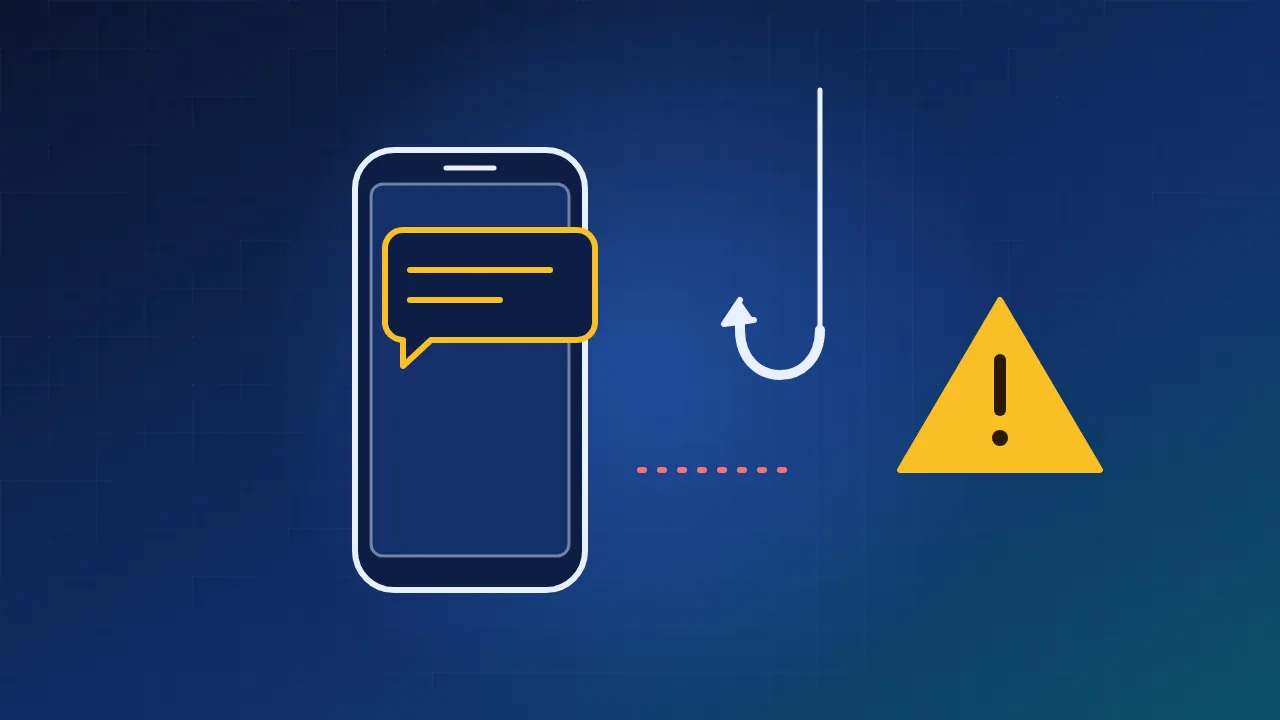
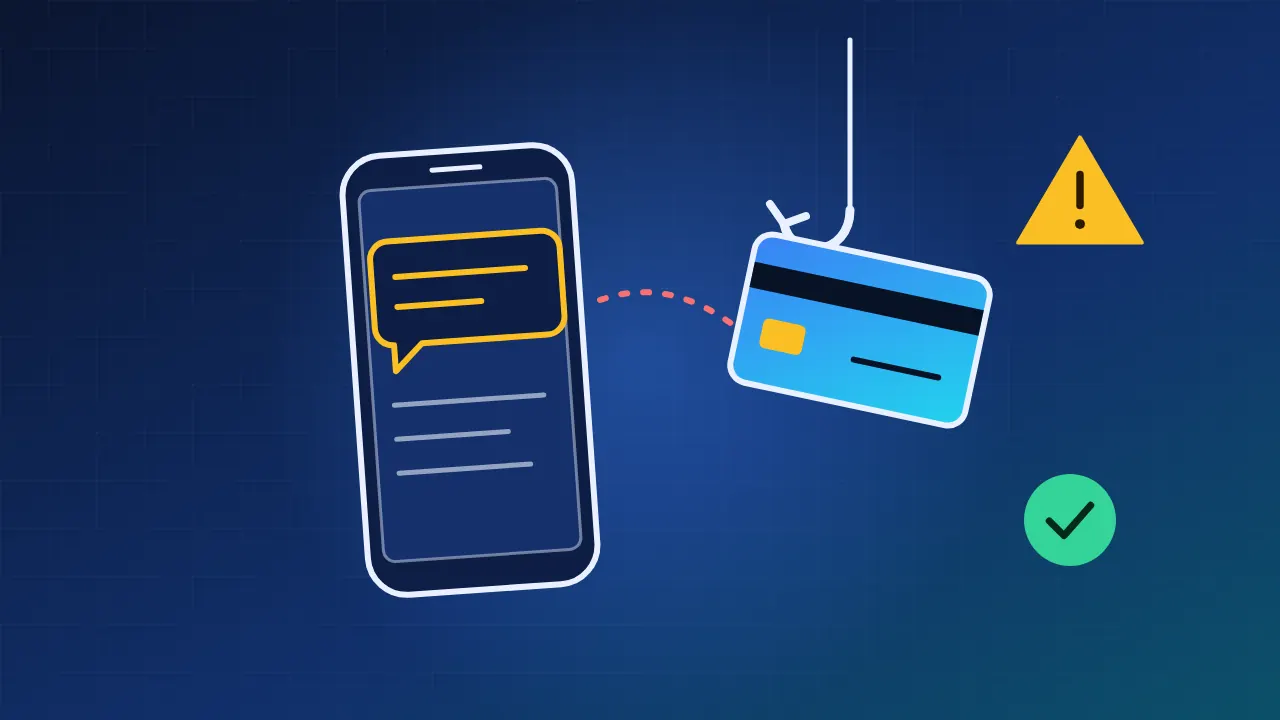
Illustrations redessinées (arnaques, batterie, consoles), empreinte ?v= sur les images, contrôle des dessins dans GitHub
Claude-Session: https://claude.ai/code/session_01DeNgQkMUf5wDfSUwssxcfR

diff --git a/source/gouyerian-tech.html b/source/gouyerian-tech.html
@@ -2385,7 +2385,9 @@ NEWS.sort((a,b)=>(isUrg(b)-isUrg(a))||b.d.localeCompare(a.d));
 /* Chaque actualité a sa page : #actu-<adresse> dans l’aperçu, /actualites/<adresse>/ sur le site */
 const slugify=t=>{let o="";for(const w of norm(t).split(" ")){if(o&&(o+"-"+w).length>64)break;o+=(o?"-":"")+w}return o};
 NEWS.forEach(n=>{n.id=slugify(n.t)});
-const picHTML=(n,alt,sizes,eager)=>`<img src="${ASSETS}img/${n}-640.webp" srcset="${ASSETS}img/${n}-640.webp 640w, ${ASSETS}img/${n}-1280.webp 1280w" sizes="${sizes}" width="1280" height="720" alt="${alt||""}" ${eager?'fetchpriority="high"':'loading="lazy"'} decoding="async">`;
+/* IMGV : empreinte de chaque image (ajoutée par build.py), pour que les navigateurs prennent tout de suite une illustration redessinée */
+const imgv=f=>{const v=(window.GT_IMGV||{})[f];return v?"?v="+v:""};
+const picHTML=(n,alt,sizes,eager)=>`<img src="${ASSETS}img/${n}-640.webp${imgv(n+"-640.webp")}" srcset="${ASSETS}img/${n}-640.webp${imgv(n+"-640.webp")} 640w, ${ASSETS}img/${n}-1280.webp${imgv(n+"-1280.webp")} 1280w" sizes="${sizes}" width="1280" height="720" alt="${alt||""}" ${eager?'fetchpriority="high"':'loading="lazy"'} decoding="async">`;
 const esc=s=>String(s).replace(/[&<>"]/g,c=>({"&":"&amp;","<":"&lt;",">":"&gt;",'"':"&quot;"}[c]));
 const C={tel:"06 05 79 48 94",telI:"+33605794894",mail:"gouyerian.tech@gmail.com",adr:"1 route de Segonzac, 16130 Saint-Fort-sur-le-Né"};
 const hrefs={tel:"tel:"+C.telI,mail:"mailto:"+C.mail,map:"https://www.google.com/maps/search/?api=1&query="+encodeURIComponent("Gouyerian Tech, "+C.adr)+"&query_place_id=ChIJY1Q5ZwBhAEgRGG3fYcH4qpk"};

diff --git a/outils/gen_illus.py b/outils/gen_illus.py
@@ -304,20 +304,14 @@ S["cat-assistance"] = frame(
     + wifi(735, 480, 90) + f'<path d="M1010 250c0 70 -70 130 -70 130s-70 -60 -70 -130a70 70 0 0 1 140 0z" fill="url(#ac)" stroke="{INK}"/><circle cx="940" cy="250" r="24" fill="{BODY}"/>'
     + f'<path d="M940 380c-80 60 -150 60 -190 40" stroke="{CY}" stroke-dasharray="4 18" stroke-width="7"/>', 620, 380)
 S["cat-consoles"] = frame(
-    # console portable générique : écran au centre, deux manettes détachables
-    f'<rect x="330" y="200" width="130" height="250" rx="58" fill="{BODY}" stroke="{CY}"/><rect x="740" y="200" width="130" height="250" rx="58" fill="{BODY}" stroke="{BL}"/>'
-    + f'<rect x="440" y="200" width="320" height="250" rx="14" fill="{BODY}"/><rect x="462" y="222" width="276" height="206" rx="8" fill="url(#ac)" fill-opacity=".38" stroke="none"/>'
-    + f'<circle cx="395" cy="265" r="24" fill="#14306a"/><circle cx="805" cy="375" r="24" fill="#14306a"/>'
-    + f'<path d="M395 352v40M375 372h40" stroke-width="8"/>'
-    + "".join(f'<circle cx="{x}" cy="{y}" r="9" fill="{INK}" stroke="none"/>' for x, y in ((805, 250), (785, 270), (825, 270), (805, 290)))
-    + f'<rect x="580" y="458" width="40" height="12" rx="6" fill="{INK}" stroke="none"/>' + bolt(600, 540, .7, AM)
-    # prise HDMI et son câble
-    + f'<path d="M170 520h110l-14 40h-82z" fill="{BODY}" stroke="{CY}"/><path d="M196 532h58" stroke="{CY}" stroke-width="5"/><path d="M225 560v40c0 40 60 50 110 30" stroke="{CY}" stroke-width="8"/>'
+    # écran, manette générique et prise HDMI : réparation de consoles (aucun modèle réel)
+    monitor(560, 290, 500, 300, f'<path d="M336 390h448" stroke="{CY}" stroke-width="6"/><rect x="400" y="320" width="110" height="22" rx="6" fill="url(#ac)" stroke="none"/>'
+             f'<rect x="590" y="260" width="130" height="22" rx="6" fill="url(#ac)" stroke="none"/><circle cx="455" cy="292" r="20" fill="{AM}" stroke="none"/>'
+             f'<path d="M490 270q60 -70 120 -30" stroke="{AM}" stroke-width="5" stroke-dasharray="4 14"/>' + sparkles([(655, 220), (380, 200)], GR))
+    + gamepad(930, 545, 1.08)
+    + f'<path d="M170 520h110l-14 40h-82z" fill="{BODY}" stroke="{CY}"/><path d="M196 532h58" stroke="{CY}" stroke-width="5"/><path d="M225 560v34c0 34 60 44 110 22" stroke="{CY}" stroke-width="8"/>'
     + label(225, 500, "HDMI", 30, CY)
-    # manette
-    + f'<path d="M928 500h164a52 52 0 0 1 50 64l-18 64a30 30 0 0 1 -52 10l-32 -40h-110l-32 40a30 30 0 0 1 -52 -10l-18 -64a52 52 0 0 1 50 -64z" fill="{BODY}"/>'
-    + f'<path d="M946 540v34M929 557h34" stroke-width="7"/><circle cx="1068" cy="545" r="8" fill="{CY}" stroke="none"/><circle cx="1090" cy="566" r="8" fill="{AM}" stroke="none"/>'
-    + wrench(1000, 250, .7, 40, CY) + check(1110, 170, 42), 600, 360)
+    + wrench(1010, 230, .7, 40, CY) + check(1110, 140, 42) + bolt(560, 560, .6, AM), 600, 360)
 S["pro-virus"] = frame(
     monitor(560, 320, 520, 320, shield(560, 320, 1.0) + f'<path d="M520 320l30 30 56 -64" stroke="#071226" stroke-width="12"/>')
     + f'<g transform="translate(960 220)"><ellipse rx="44" ry="56" fill="{BODY}" stroke="{RD}"/><path d="M-44 -10h-30M44 -10h30M-40 26l-28 18M40 26l28 18M-30 -44l-20 -24M30 -44l20 -24M0 -56v112" stroke="{RD}"/></g>'
@@ -342,10 +336,12 @@ S["telephone-tombe-dans-l-eau"] = frame(
     + f'<path d="M120 580q60 -40 120 0t120 0 120 0 120 0 120 0 120 0 120 0 120 0 120 0" stroke="{CY}" stroke-width="7"/><path d="M180 640q60 -40 120 0t120 0 120 0 120 0 120 0 120 0 120 0 120 0" stroke="{CY}" stroke-width="6" stroke-opacity=".5"/>'
     + f'<circle cx="1040" cy="460" r="54" fill="{AM}" stroke="none"/><path d="M1022 438a28 28 0 1 0 36 0" stroke="#2a1a00" stroke-width="8"/><path d="M1040 424v34" stroke="#2a1a00" stroke-width="8"/>', 640, 320)
 S["arnaques-en-ligne"] = frame(
-    phone(470, 370, 230, 440, 0, screen="#14306a", extra=bubble(385, 230, 210, 110, AM) + f'<path d="M410 270h140M410 300h90" stroke="{AM}" stroke-width="6"/>')
-    + f'<path d="M820 90v240" stroke-width="5"/><path d="M820 330c0 60 -80 60 -80 0v-20" stroke="{INK}" stroke-width="10"/><path d="M740 300l-16 24 30 -4" fill="{INK}"/>'
-    + f'<path d="M900 470L1000 300L1100 470Z" fill="{AM}" stroke="{AM}"/><path d="M1000 360v50" stroke="#2a1a00" stroke-width="12"/><circle cx="1000" cy="438" r="8" fill="#2a1a00" stroke="none"/>'
-    + f'<path d="M640 470h150" stroke="{RD}" stroke-width="6" stroke-dasharray="4 16"/>', 640, 360)
+    # faux message reçu sur le téléphone, hameçon qui « pêche » la carte bancaire, alerte
+    phone(470, 370, 230, 440, -4, screen="#14306a", extra=bubble(378, 236, 190, 104, AM) + f'<path d="M402 272h130M402 302h84" stroke="{AM}" stroke-width="6"/>'
+          + screenlines(392, 400, 3, 150, 34))
+    + f'<path d="M850 40v170" stroke-width="5"/><path d="M850 210c0 46 -58 52 -66 14" stroke-width="9"/><path d="M784 224l-14 -20M784 224l22 -8" stroke-width="8"/>'
+    + bankcard(860, 330, 240, 12)
+    + warning(1080, 190, .62) + check(1070, 520, 46) + link(600, 300, 740, 330, -40, RD), 640, 360)
 S["ordinateur-lent"] = frame(
     laptop(520, 320, 480, f'<path d="M330 260h180M330 300h140M330 340h160" stroke-width="5" stroke-opacity=".5"/>')
     + f'<g transform="translate(640 300)"><path d="M-50 -70h100M-50 70h100M-40 -70c0 50 80 50 80 70s-80 20 -80 70M40 -70c0 50 -80 50 -80 70s80 20 80 70" fill="{BODY}" stroke="{AM}"/><path d="M-20 50h40l-20 -18z" fill="{AM}" stroke="none"/></g>'
@@ -353,9 +349,11 @@ S["ordinateur-lent"] = frame(
     + f'<path d="M790 310h80" stroke="{CY}" stroke-width="8"/><path d="M850 290l24 20 -24 20" stroke="{CY}" stroke-width="8"/>'
     + gear(990, 520, 48, CY), 640, 340)
 S["batterie-smartphone"] = frame(
-    phone(460, 360, 210, 420, 0, screen="#14306a", extra=battery(460, 340, 120, 56, .8) + label(460, 450, "80 %", 40, INK))
-    + f'<g transform="translate(820 300)"><path d="M-22 -110a22 22 0 0 1 44 0v140a46 46 0 1 1 -44 0z" fill="{BODY}"/><circle r="30" cy="70" fill="{RD}" stroke="none"/><path d="M0 70v-130" stroke="{RD}" stroke-width="12"/></g>'
-    + cross(890, 180, 34) + f'<path d="M980 470a90 90 0 1 1 160 0" stroke="{GR}" stroke-width="10"/><path d="M1060 470l-36 -60" stroke="{GR}" stroke-width="8"/>' + bolt(1060, 540, .7, AM), 620, 360)
+    # batterie ménagée : ni trop chaud, ni trop froid, charge limitée à 80 %
+    phone(430, 360, 220, 430, 0, screen="#14306a", extra=battery(430, 330, 130, 60, .8) + bolt(430, 440, .55, AM))
+    + thermometer(760, 330, .95, .85) + cross(830, 190, 34)
+    + snowflake(1010, 220, 62) + cross(1076, 160, 30)
+    + badge(1010, 500, "80 %", 82, GR, sub="charge"), 640, 360)
 S["sauvegarder-ses-photos"] = frame(
     f'<rect x="170" y="240" width="300" height="230" rx="16" fill="{BODY}"/><path d="M200 440l80 -90 60 60 40 -40 60 70" stroke="{CY}"/><circle cx="410" cy="300" r="22" fill="{AM}" stroke="none"/>'
     + cloud(780, 220, .95, "url(#ac)")

diff --git a/outils/build.py b/outils/build.py
@@ -144,6 +144,14 @@ def fee(km):
 PAGES = []  # dict(path, view, markup, title, desc, crumbs, ld, pg, changefreq, priority)
 
 
+IMGV = {f.name: hashlib.sha1(f.read_bytes()).hexdigest()[:8] for f in sorted((B / "img" / "ill").iterdir())}  # empreintes des illustrations
+
+
+def iv(name):
+    """« ?v=empreinte » d'une illustration : une image redessinée change d'adresse, donc plus de vieille copie en cache."""
+    return f"?v={IMGV[name]}" if name in IMGV else ""
+
+
 def add(path, view, markup, title, desc, crumbs, ld=None, pg=None, prio="0.7", index=True, extra_head="", lastmod=TODAY, og=None, imgs=()):
     PAGES.append(dict(path=path, view=view, markup=markup, title=title, desc=desc, crumbs=crumbs, ld=ld or [], pg=pg or {"view": view}, prio=prio, index=index, extra_head=extra_head, lastmod=lastmod, og=og, imgs=imgs))
 
@@ -241,15 +249,18 @@ add("/infos-pratiques/", "conseils", VIEW["conseils"], "Infos pratiques en infor
         {"@type": "ListItem", "position": i + 1, "url": f"{SITE}/infos-pratiques/{a['s']}/", "name": a["t"]} for i, a in enumerate(DATA["arts"])]}],
     prio="0.8")
 for a in DATA["arts"]:
+    manque = [f for f in (f"{a['s']}-640.webp", f"{a['s']}-1280.webp", f"og-{a['s']}.jpg") if f not in IMGV]
+    if manque:
+        raise SystemExit(f"Illustration manquante pour l’info pratique « {a['s']} » : {', '.join(manque)} (ajouter S['{a['s']}'] dans outils/gen_illus.py puis : python outils/gen_illus.py {a['s']})")
     path = f"/infos-pratiques/{a['s']}/"
     t = a["t"] + " · Gouyerian Tech"
     add(path, "article", VIEW["article"], t if len(t) <= 65 else a["t"], a["d"],
         [HOME, ("Infos pratiques", "/infos-pratiques/"), (a["t"], path)],
         ld=[{"@context": "https://schema.org", "@type": "Article", "headline": a["t"], "description": a["d"], "inLanguage": "fr-FR",
              "datePublished": a["date"], "dateModified": a["date"], "articleSection": a["cat"], "timeRequired": f"PT{a['min']}M",
-             "image": [SITE + f"/assets/img/og-{a['s']}.jpg", SITE + f"/assets/img/{a['s']}-1280.webp"], "mainEntityOfPage": SITE + path,
+             "image": [SITE + f"/assets/img/og-{a['s']}.jpg" + iv(f"og-{a['s']}.jpg"), SITE + f"/assets/img/{a['s']}-1280.webp" + iv(f"{a['s']}-1280.webp")], "mainEntityOfPage": SITE + path,
              "author": {"@type": "Organization", "name": "Gouyerian Tech", "url": SITE + "/"}, "publisher": {"@id": ORG_ID}}],
-        pg={"view": "article", "slug": a["s"]}, prio="0.7", lastmod=a["date"], og=f"/assets/img/og-{a['s']}.jpg", imgs=(f"/assets/img/{a['s']}-1280.webp",))
+        pg={"view": "article", "slug": a["s"]}, prio="0.7", lastmod=a["date"], og=f"/assets/img/og-{a['s']}.jpg" + iv(f"og-{a['s']}.jpg"), imgs=(f"/assets/img/{a['s']}-1280.webp",))
 add("/actualites/", "actus", VIEW["actus"], "Actualités tech France et monde · Gouyerian Tech",
     f"{DATA['news']} actualités tech résumées simplement : smartphones, ordinateurs, IA, Internet, sécurité, jeux vidéo. Un conseil pratique et le lien vers chaque source.",
     [HOME, ("Actualités", "/actualites/")], prio="0.7")
@@ -405,7 +416,7 @@ def out_file(path):
 A = DIST / "assets"
 (A / "fonts").mkdir(parents=True)
 (A / "site.css").write_text(site_css, encoding="utf-8")
-(A / "app.js").write_text("/* Gouyerian Tech, script du site */\n" + js.strip() + "\n", encoding="utf-8")
+(A / "app.js").write_text("/* Gouyerian Tech, script du site */\nwindow.GT_IMGV=" + json.dumps(IMGV, separators=(",", ":")) + ";\n" + js.strip() + "\n", encoding="utf-8")
 (A / "logo.png").write_bytes(__import__("base64").b64decode((B / "donnees" / "logo.b64").read_text().strip()))
 (A / "adresses.js").write_text('window.GT_BANZ="' + (B / "donnees" / "ban.b64").read_text().strip() + '";\n', encoding="utf-8")
 for f in (B / "fonts").iterdir():

diff --git a/outils/NOTES.md b/outils/NOTES.md
@@ -47,6 +47,7 @@ Le script a besoin de quelques fichiers, à recréer s'ils manquent :
 - Ajouter l'URL du site sur la fiche Google.
 
 ## Illustrations (3 nov.)
+- 7 nov. (suite) : illustrations redessinées avec les nouveaux éléments : arnaques-en-ligne (hameçon qui attrape une carte bancaire), batterie-smartphone (chaud, froid, charge à 80 %), cat-consoles (écran, manette générique, HDMI ; plus de console ressemblant à un modèle réel). Chaque adresse d'image porte une empreinte `?v=` (build.py `IMGV`, `window.GT_IMGV` dans app.js, `imgv()` dans picHTML) : une image redessinée est vue tout de suite malgré le cache de 30 jours. GitHub contrôle les dessins (`gen_illus.py --controle`) avant de construire, et build.py s'arrête si une info pratique n'a pas d'illustration.
 - 7 nov. : gen_illus.py amélioré : 24 éléments de dessin ajoutés (arrow, link, calendar, padlock, envelope, bankcard, gift, cart, pricetag, magnifier, warning, snowflake, thermometer, chip, router, gamepad, headphones, usbkey, clock, hourglass, house, screenlines, badge) ; contrôle automatique de chaque dessin (élément coupé au bord, texte qui chevauche ou trop petit, dessin trop petit ou décentré ; code de sortie 1) ; options `nom…`, `--controle`, `--planche` (grand + vignette téléphone + partage), `--catalogue` (tous les éléments), `--liste`, `--aide`. Sorties de contrôle dans outils/img/ill-src/ (non versionné). Les images existantes sont inchangées.
 - gen_illus.py dessine 14 illustrations originales en SVG (fond bleu nuit, traits blancs et cyan), exportées en WebP 640/1280 px (~5 à 20 Ko) et en JPEG 1200×630 pour le partage des 7 articles.
 - Affichage : `picHTML()` (srcset, sizes, width/height, loading="lazy", decoding="async") ; `[data-pic]` rempli au chargement ; seule l'image d'en-tête d'article est prioritaire.
